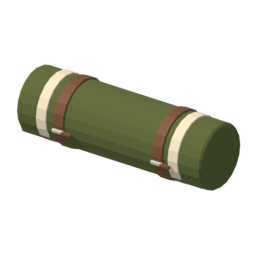
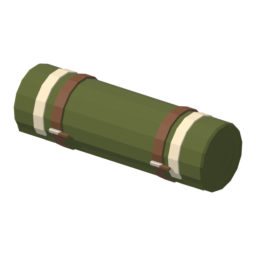
feat(121): thumbnails round 5 — bedroll 15-sided, bike pump, gas can, pack, rucksack reworks; burger, groceries, cooler and ice rulings

diff --git a/assets/models/src/items.py b/assets/models/src/items.py
@@ -397,7 +397,7 @@ def build_emergencyGas():
     """A 2 gal RotoPax-style flat pack: rounded slab with the mounting hole, ribs, top handle, black cap."""
     b = Builder()
     W, H, T, C = 0.375, 0.315, 0.100, 0.014
-    N = 64
+    N = 24   # lower poly (owner, 2026-10-21)
     def outline(w, h, r, cx=0, cz=0):
         out = []
         for k in range(N):
@@ -436,14 +436,25 @@ def build_emergencyGas():
                 b.cbox(((x0[0] + x0[1]) / 2, y + s * 0.003, zc + zz), (x0[1] - x0[0], 0.010, 0.016), "CanRed", ch=0.003)
     # Carry handle along the top, and the black cap on the top-right shoulder.
     top = zc + H / 2
-    b.bar((-0.095, 0, top - 0.010), (-0.080, 0, top + 0.040), 0.034, "CanRed", h=0.030)
-    b.bar((0.045, 0, top - 0.010), (0.030, 0, top + 0.040), 0.034, "CanRed", h=0.030)
-    b.bar((-0.090, 0, top + 0.040), (0.040, 0, top + 0.040), 0.034, "CanRed", h=0.030)
+    def arch(x0, x1, z1, lw, th, k):   # the handle's side outline: two legs and a bar, corners cut by k
+        z0 = top - 0.012
+        return [(x0, z0), (x0 + lw, z0), (x0 + lw, z1 - th - k), (x0 + lw + k, z1 - th), (x1 - lw - k, z1 - th),
+                (x1 - lw, z1 - th - k), (x1 - lw, z0), (x1, z0), (x1, z1 - k), (x1 - k, z1), (x0 + k, z1), (x0, z1 - k)]
+    HT, CH = 0.032, 0.005   # handle thickness; chamfer on its front and back edges (owner, 2026-10-21: one solid)
+    full = arch(-0.110, 0.060, top + 0.055, 0.032, 0.026, 0.012)
+    inset = arch(-0.110 + CH, 0.060 - CH, top + 0.055 - CH, 0.032 - 2 * CH, 0.026 - 2 * CH, 0.012)
+    hl = [(inset, -HT / 2), (full, -HT / 2 + CH), (full, HT / 2 - CH), (inset, HT / 2)]
+    for (la, ya), (lb, yb) in zip(hl, hl[1:]):
+        for k in range(len(full)):
+            j = (k + 1) % len(full)
+            b.face([(la[k][0], ya, la[k][1]), (la[j][0], ya, la[j][1]), (lb[j][0], yb, lb[j][1]), (lb[k][0], yb, lb[k][1])], "CanRed")
+    for lp, y in ((inset, -HT / 2), (inset, HT / 2)):
+        b.face([(x, y, z_) for x, z_ in lp], "CanRed")
     b.M = Matrix.Translation((0.128, 0, top - 0.012)) @ Matrix.Rotation(math.radians(-18), 4, "Y")
-    b.lathe([(0.030, 0.0), (0.030, 0.012), (0.033, 0.014), (0.033, 0.040), (0.030, 0.044), (0.0, 0.046)], 16, "CanBlack", cap_top=False)
-    for k in range(16):  # knurl ribs on the cap
-        a = 2 * math.pi * (k + 0.5) / 16
-        b.bar((0.034 * math.cos(a), 0.034 * math.sin(a), 0.016), (0.034 * math.cos(a), 0.034 * math.sin(a), 0.038), 0.004, "CanBlack")
+    b.lathe([(0.040, 0.0), (0.040, 0.014), (0.044, 0.017), (0.044, 0.050), (0.040, 0.055), (0.0, 0.057)], 12, "CanBlack", cap_top=False)
+    for k in range(12):  # knurl ribs on the (bigger) cap
+        a = 2 * math.pi * (k + 0.5) / 12
+        b.bar((0.045 * math.cos(a), 0.045 * math.sin(a), 0.019), (0.045 * math.cos(a), 0.045 * math.sin(a), 0.047), 0.005, "CanBlack")
     b.M = Matrix.Identity(4)
     return b.finish("emergencyGas")
 
@@ -453,20 +464,21 @@ def build_pack():
     top, leather base, leather-flapped front pocket with two buckled straps, canvas webbing shoulder
     straps on leather tabs, a leather grab loop."""
     b = Builder()
-    body = ((0.0, 0.25, 0.085), (0.008, 0.262, 0.097), (0.02, 0.27, 0.10), (0.06, 0.274, 0.104), (0.20, 0.276, 0.106),
-            (0.31, 0.276, 0.106), (0.335, 0.272, 0.104), (0.352, 0.262, 0.098), (0.363, 0.246, 0.090), (0.369, 0.228, 0.082))
-    b.loft([rrect(w, d, min(0.025, d / 2 - 0.002), z, per=5) for z, w, d in body], "Canvas")
+    D = 0.106   # body depth at its widest
+    body = ((0.0, 0.25, 0.085), (0.02, 0.27, 0.10), (0.20, 0.276, D), (0.31, 0.276, D), (0.350, 0.264, 0.099),
+            (0.369, 0.228, 0.082))   # lower poly (owner, 2026-10-21)
+    b.loft([rrect(w, d, min(0.025, d / 2 - 0.002), z, per=2) for z, w, d in body], "Canvas")
     # Leather base, wrapped a few mm proud of the canvas.
-    base = ((0.0, 0.256, 0.091), (0.008, 0.268, 0.103), (0.02, 0.276, 0.106), (0.06, 0.280, 0.110))
-    b.loft([rrect(w, d, 0.026, z, per=5) for z, w, d in base], "Leather", cap_top=False)
+    base = ((0.0, 0.256, 0.091), (0.02, 0.276, 0.106), (0.06, 0.280, 0.110))
+    b.loft([rrect(w, d, 0.026, z, per=2) for z, w, d in base], "Leather", cap_top=False)
     # Two leather straps over the top, from the back down the front, buckled above the pocket.
     over = [r for r in body if r[0] >= 0.30]
-    path = [(d / 2, z) for z, w, d in over] + [(-d / 2, z) for z, w, d in reversed(over)] + [(-body[4][2] / 2, 0.255)]
+    path = [(d / 2, z) for z, w, d in over] + [(-d / 2, z) for z, w, d in reversed(over)] + [(-D / 2, 0.255)]
     for x in (-0.06, 0.06):
         for (y0, z0), (y1, z1) in zip(path, path[1:]):
             t = Vector((0, y1 - y0, z1 - z0)).normalized(); n = (0, -t.z, t.y)
             b.bar((x, y0, z0), (x, y1, z1), 0.022, "Leather", h=0.004, caps=False, up=n)
-        yb, bz = -body[4][2] / 2 - 0.003, 0.290
+        yb, bz = -D / 2 - 0.003, 0.290
         for (p, q) in (((x - 0.015, yb, bz - 0.011), (x + 0.015, yb, bz - 0.011)),
                        ((x - 0.015, yb, bz + 0.011), (x + 0.015, yb, bz + 0.011)),
                        ((x - 0.015, yb, bz - 0.011), (x - 0.015, yb, bz + 0.011)),
@@ -496,10 +508,9 @@ def build_rucksack():
     """An old canvas rucksack: lofted body, top flap, front pocket, leather straps + buckles, haul loop."""
     b = Builder()
     rings = []
-    for z, w, d in ((0.0, 0.26, 0.13), (0.008, 0.276, 0.146), (0.02, 0.285, 0.155), (0.06, 0.298, 0.168),
-                    (0.10, 0.305, 0.175), (0.17, 0.309, 0.178), (0.24, 0.31, 0.178), (0.30, 0.304, 0.172),
-                    (0.36, 0.295, 0.165), (0.40, 0.283, 0.155), (0.42, 0.27, 0.145), (0.445, 0.24, 0.12)):
-        rings.append(rrect(w, d, 0.045, z, per=6))
+    for z, w, d in ((0.0, 0.26, 0.13), (0.02, 0.285, 0.155), (0.10, 0.305, 0.175), (0.24, 0.31, 0.178),
+                    (0.36, 0.295, 0.165), (0.42, 0.27, 0.145), (0.445, 0.24, 0.12)):   # lower poly (owner, 2026-10-21)
+        rings.append(rrect(w, d, 0.045, z, per=2))
     b.loft(rings, "Canvas")
     # Top flap: a soft lid draped over the top and down the front. A grid of (profile x across)
     # points: the side profile in YZ, its edges drooping into the body as |v|^3 so the flap wraps the
@@ -536,16 +547,17 @@ def build_rucksack():
     # Front pocket.
     b.cbox((0.0, -0.105, 0.135), (0.215, 0.055, 0.17), "Canvas", ch=0.018)
     b.cbox((0.0, -0.110, 0.205), (0.222, 0.056, 0.035), "CanvasDark", ch=0.012)   # pocket flap
-    # Two leather straps: from under the top flap down over the pocket, with buckles.
+    # Two leather straps from under the top flap, buckled above the pocket; the pocket's own two short
+    # straps run down from its flap (owner, 2026-10-21: the long ones clipped through it — do it like the pack).
+    def buckle(x, y, bz, hw, hh, t):
+        for (p, q) in (((x - hw, y, bz - hh), (x + hw, y, bz - hh)), ((x - hw, y, bz + hh), (x + hw, y, bz + hh)),
+                       ((x - hw, y, bz - hh), (x - hw, y, bz + hh)), ((x + hw, y, bz - hh), (x + hw, y, bz + hh))):
+            b.bar(p, q, t, "Buckle")
     for x in (-0.065, 0.065):
-        b.ribbon([(x, -0.103, 0.335), (x, -0.104, 0.300), (x, -0.124, 0.230), (x, -0.136, 0.170), (x, -0.135, 0.105)],
-                 (0, -1, 0), 0.024, 0.004, "Leather")
-        bz = 0.150
-        for (p, q) in (((x - 0.017, -0.140, bz - 0.013), (x + 0.017, -0.140, bz - 0.013)),
-                       ((x - 0.017, -0.140, bz + 0.013), (x + 0.017, -0.140, bz + 0.013)),
-                       ((x - 0.017, -0.140, bz - 0.013), (x - 0.017, -0.140, bz + 0.013)),
-                       ((x + 0.017, -0.140, bz - 0.013), (x + 0.017, -0.140, bz + 0.013))):
-            b.bar(p, q, 0.005, "Buckle")
+        b.ribbon([(x, -0.103, 0.335), (x, -0.100, 0.300), (x, -0.094, 0.270), (x, -0.092, 0.236)], (0, -1, 0), 0.024, 0.004, "Leather")
+        buckle(x, -0.097, 0.262, 0.017, 0.013, 0.005)
+        b.ribbon([(x * 0.85, -0.1395, 0.200), (x * 0.85, -0.1345, 0.150), (x * 0.85, -0.134, 0.090)], (0, -1, 0), 0.020, 0.003, "Leather")
+        buckle(x * 0.85, -0.137, 0.140, 0.014, 0.011, 0.004)
     # Shoulder straps on the back, and the haul loop on top.
     for x in (-0.075, 0.075):
         b.ribbon([(x * 0.8, 0.075, 0.420), (x, 0.115, 0.380), (x * 1.15, 0.125, 0.240), (x * 1.3, 0.115, 0.080), (x * 1.3, 0.085, 0.03)],
@@ -559,7 +571,7 @@ def build_rucksack():
 
 def build_bedroll():
     """A rolled wool blanket: stepped spiral ends, cream stripe bands, two leather straps with buckles."""
-    b = Builder(); SEG = 20
+    b = Builder(); SEG = 15   # owner, 2026-10-21
     R, L = 0.088, 0.56
     b.M = Matrix.Translation((0, 0, R)) @ Matrix.Rotation(math.pi / 2, 4, "Y")
     # Body, with the spiral read from three stepped layers at each end.
@@ -1448,31 +1460,29 @@ def build_bikePump():
     for sx in (-1, 1):   # the feet
         b.hull([(sx * dx, dy, z) for dx in (0.018, 0.105) for dy in (-0.030, 0.030) for z in (0.0, 0.012)]
                + [(sx * 0.112, 0.0, 0.006)], "CanBlack")
-    b.lathe([(0.0, 0.0), (0.036, 0.0), (0.036, 0.024), (0.026, 0.040), (0.026, 0.050), (0.0, 0.051)], 16, "CanBlack")   # base boss
-    b.lathe([(0.0225, 0.050), (0.0225, 0.600)], 16, "Steel", cap_bottom=False, cap_top=False)   # barrel
-    b.lathe([(0.0255, 0.596), (0.0255, 0.618), (0.010, 0.624), (0.0, 0.625)], 16, "CanBlack", cap_bottom=False)   # top cap
-    b.lathe([(0.0055, 0.624), (0.0055, 0.680)], 10, "Chrome", cap_bottom=False, cap_top=False)   # plunger rod
+    # Lower poly, fatter barrel, bigger gauge and handle so it reads small (owner, 2026-10-21).
+    b.lathe([(0.0, 0.0), (0.042, 0.0), (0.042, 0.024), (0.032, 0.040), (0.032, 0.050), (0.0, 0.051)], 10, "CanBlack")   # base boss
+    b.lathe([(0.028, 0.050), (0.028, 0.600)], 10, "Steel", cap_bottom=False, cap_top=False)   # barrel
+    b.lathe([(0.031, 0.596), (0.031, 0.618), (0.012, 0.624), (0.0, 0.625)], 10, "CanBlack", cap_bottom=False)   # top cap
+    b.lathe([(0.0065, 0.624), (0.0065, 0.680)], 6, "Chrome", cap_bottom=False, cap_top=False)   # plunger rod
     b.M = Matrix.Translation((0, 0, 0.690)) @ Matrix.Rotation(math.pi / 2, 4, "Y")   # T-handle along X
-    hp = [(0.0, -0.096), (0.010, -0.095), (0.0145, -0.090)]
-    for k in range(17):
-        z = -0.082 + 0.164 * k / 16
-        hp.append((0.0145 if abs(z) > 0.020 else 0.0115, z))
-    hp += [(0.0145, 0.090), (0.010, 0.095), (0.0, 0.096)]
-    b.lathe(hp, 12, "CanBlack", cap_bottom=False, cap_top=False)
+    hp = [(0.0, -0.125), (0.013, -0.124), (0.019, -0.118), (0.019, -0.026), (0.014, -0.022), (0.014, 0.022), (0.019, 0.026),
+          (0.019, 0.118), (0.013, 0.124), (0.0, 0.125)]
+    b.lathe(hp, 8, "CanBlack", cap_bottom=False, cap_top=False)
     b.M = Matrix.Identity(4)
     # Gauge on the base, face toward the viewer.
-    b.M = Matrix.Translation((0.0, -0.040, 0.075)) @ Matrix.Rotation(math.radians(75), 4, "X")
-    b.lathe([(0.0, -0.010), (0.034, -0.010), (0.037, 0.0), (0.037, 0.006), (0.033, 0.008)], 20, "CanBlack", cap_top=False)
-    b.lathe([(0.033, 0.005), (0.0, 0.005)], 20, "GaugeFace", cap_bottom=False, cap_top=False)
-    b.bar((0.0, 0.0, 0.0058), (0.016, 0.018, 0.0058), 0.003, "CanRed", h=0.0008)
+    b.M = Matrix.Translation((0.0, -0.052, 0.100)) @ Matrix.Rotation(math.radians(75), 4, "X")
+    b.lathe([(0.0, -0.012), (0.049, -0.012), (0.053, 0.0), (0.053, 0.007), (0.048, 0.009)], 12, "CanBlack", cap_top=False)
+    b.lathe([(0.048, 0.006), (0.0, 0.006)], 12, "GaugeFace", cap_bottom=False, cap_top=False)
+    b.bar((0.0, 0.0, 0.0068), (0.024, 0.026, 0.0068), 0.004, "CanRed", h=0.0010)
     b.M = Matrix.Identity(4)
-    b.bar((0.0, -0.022, 0.060), (0.0, -0.030, 0.068), 0.010, "CanBlack")
+    b.bar((0.0, -0.026, 0.088), (0.0, -0.040, 0.096), 0.012, "CanBlack")
     # Hose: out of the base, a loop out to the side, up to a clip high on the barrel, chuck parked.
-    hose = [(0.030, 0.012, 0.030), (0.060, 0.030, 0.030), (0.085, 0.040, 0.080), (0.090, 0.040, 0.180), (0.080, 0.035, 0.300),
-            (0.060, 0.030, 0.400), (0.040, 0.026, 0.470), (0.030, 0.024, 0.500)]
-    b.tube(hose, 0.0055, 8, "CanBlack")
-    b.cbox((0.0, 0.024, 0.500), (0.050, 0.010, 0.020), "CanBlack", ch=0.003)   # holster clip on the barrel
-    b.tube([(0.030, 0.024, 0.500), (0.030, 0.024, 0.535), (0.030, 0.024, 0.560)], 0.0095, 10, "CanRed")   # chuck
+    hose = [(0.036, 0.014, 0.030), (0.066, 0.034, 0.030), (0.092, 0.044, 0.080), (0.097, 0.044, 0.180), (0.087, 0.040, 0.300),
+            (0.066, 0.035, 0.400), (0.046, 0.032, 0.470), (0.036, 0.031, 0.500)]
+    b.tube(hose, 0.0070, 6, "CanBlack")
+    b.cbox((0.0, 0.030, 0.500), (0.060, 0.010, 0.022), "CanBlack", ch=0.003)   # holster clip on the barrel
+    b.tube([(0.036, 0.031, 0.500), (0.036, 0.031, 0.535), (0.036, 0.031, 0.562)], 0.0110, 8, "CanRed")   # chuck
     return b.finish("bikePump")
 
 

diff --git a/.planning/story-mode/items.md b/.planning/story-mode/items.md
@@ -57,7 +57,7 @@ Used up. Per-job or per-day decisions, not permanent upgrades.
 | **Coffee** | Alert now, sleepy earlier tomorrow. **A loan against tomorrow, repaid at interest.** The canonical consumable and the shape every other one is measured against. **+5 h now, −2 h off the next wake-up** (owner, 2026-10-20; was −3: five hours awake costs about three hours of sleep, so the cup has to beat that ratio or nobody drinks it). | Bought (general store, gas station, food vendor), **$3** | Tomorrow's hours | **RATIFIED** — DESIGN.md "The day and the clock"; figures §7 rulings 2026-10-20 |
 | ~~**Cargo straps**~~ **[STRUCK 2026-10-14 — not an item; FEAT-110 closed, see §3e]** | Makes the **next fragile cargo** more resilient by changing the coupling between chassis and load — the cargo sees less shock than the truck does. Enables freight-grade fragile work you'd otherwise turn down. | Bought or found | Cash; a slot; trivial mass | **IDEA** — `IDEAS.md` 2026-07-29. *Open: single-use per job, degrades over several, or a reusable tool?* |
 | **Fish (eaten)** | Alertness that **does not have to be repaid** — the only honest restoration in the game. *"Coffee is debt. Fish is income."* | Caught; best at a favored water | A long relationship with the water | **PROPOSED** — `spirits-and-pacts.md` #04. ⚠ Depends on The Confluence, which is deferred. **Four species (owner, 2026-10-21): salmon, rainbow trout, brown trout, catfish — each carries a different effect** (§5) |
-| **Groceries** | **A delayed meal.** Bought at the general store, carried, and **cooked into a meal at camp — only if you own the cooking kit**. They still spoil (§1b), so they buy hours, not days. The meal for later in a run, when you camp far from a food vendor and the next stop with a kitchen is a day's drive off. | Bought (general store) | Cash; the spoilage clock; and the cooking kit's ≈23 kg on every mile | **IDEA** — owner, 2026-10-20. Figures open (the item setup page) |
+| **Groceries** | **A delayed meal.** Bought at the general store, carried, and **cooked into a meal at camp — only if you own the cooking kit**. **Ruled 2026-10-21:** the cooked meal holds 10 h; cook it in the evening or the morning before you break camp; the cooler slows them like fish; the kit's flat food bonus does not apply on top — cooking them *is* the kit's bonus. They still spoil (§1b), so they buy hours, not days. The meal for later in a run, when you camp far from a food vendor and the next stop with a kitchen is a day's drive off. | Bought (general store) | Cash; the spoilage clock; and the cooking kit's ≈23 kg on every mile | **IDEA** — owner, 2026-10-20. Figures open (the item setup page) |
 | **Spare tire** | Recovers from a puncture without a tow. **Fitting it is a 90 min timeskip** (owner, 2026-10-20; was 30 min, 2026-09-30). Puncture is a hard fail state in the wear model. **Ruled 2026-10-21:** self-contained — the truck always carries the factory jack. Full-size only, no donut. **Two items in different pools: worn (50–80% condition, ~$15) and new (~$25).** Sold at the auto shop; a bonus item from the auto shop and stranded motorists (A–S); a rare roadside find. | Bought/found; starts in some jalopies | Real mass, all the time | **IMPLIED** — named in DESIGN.md "The car" as a stowed consumable; behavior unspecified |
 | **Air filter (spare)** | Replacement for the track the player must actively *watch* — it does ~nothing until it does. | Bought/found | Cash; a slot | **IMPLIED** — same |
 | **Fuel** | The tank. Burn is a function of rpm and load, so a par-beating drive costs fuel as well as wear. **The one cost that scales with distance** — SM-INV-5 keeps wear off the distance axis, and this is what fills it. Bought at gas stations. | Gas stations (a POI type) | Cash — and the detour, if you let it get low | **RATIFIED** — owner, 2026-08-01. Reverses this row's old *NOT DESIGNED*. Ticket FEAT-50; gauge already ships (FEAT-49). See DESIGN.md "Fuel and gas stations" |
@@ -150,7 +150,9 @@ before the buff question is settled.
 | **Fish, in a cooler** | **~36 h** (2026-10-21: ×1/6; the better cooler is open) | You can carry it, camp on it, and still eat it tomorrow — a two-rung ladder, see below |
 | **Chili dog** | **16 h** (2026-10-21) | Gone |
 | **Packed lunch** | **24 h** (2026-10-21) | Gone |
-| *(everything else)* | unspecified | Cooked fish, groceries, the burger and food-as-cargo still want a figure |
+| **Burger** | **16 h** (2026-10-21, like the chili dog) | Gone |
+| **Groceries** | open — **the cooler slows them like fish (×1/6)** (2026-10-21) | Gone |
+| *(everything else)* | unspecified | Cooked fish and food-as-cargo still want a figure |
 
 **What the fish number actually does.** The day is 12–16 h (the alertness ladder, FEAT-54), so a
 fish landed in the morning is dead by mid-afternoon. Without cooling, **fishing early is a
@@ -260,10 +262,11 @@ spends daylight, so it can't turn into a chore. Thirst is out (owner, 2026-09-30
 
 - **A food class.** Diner meals, a packed lunch, cooked fish, gas-station junk food. Each resets the
   hunger clock; they differ in what else they do. **The roster as of 2026-10-21:** the **burger** (its
-  own item at the food vendor — the standard meal, ~8 h), the **dinner meal** (renamed from diner meal:
+  own item at the food vendor — the standard meal, ~8 h; spoils in 16 h, $5, a C–B reward from the food
+  vendor, never found), the **dinner meal** (renamed from diner meal:
   one generic sit-down meal at the food vendor, 8 h, 30 min to eat, $5–10, eat-in only), the chili dog
   (10 h, spoils in 16 h), the **packed lunch** (never sold — a $6 reward from homes, farms and the food
-  vendor, B–A; 8 h; fresh 24 h), groceries (§1, cooked at camp), and four gas-station snacks split from
+  vendor, B–A; 8 h; fresh 24 h), groceries (§1, cooked at camp: the meal holds 10 h), and four gas-station snacks split from
   one: **bag of peanuts, gummy worms, spicy chips, candy bar** — each holds 2–4 h and stacks 3–5, and the
   higher one stacks the less it holds.
 - **The "reduce energy drain" items** the owner asked for — they are simply the meals, and the
@@ -300,7 +303,7 @@ plus a slot**, paid on every mile you carry it, against a payoff you only occasi
 | **Breaker bar** | Roadside wrenching. Paired with the quick-jack in the bible's own list. | Bought/found | Real mass, always | **IMPLIED** — same |
 | **Chain** | Chains onto a downed log for the drag. **A one-sided distance constraint** — zero force slack, hard tension taut — and the snatch impulse *is* the damage signal. | Main-mission equipment | The truck, by design | **RATIFIED premise** — `missions.md` "Main missions". *Open: carried item, or supplied by the mission?* |
 | **Fishing gear** | Required for the fishing minigame. | ? | ? | **IMPLIED / UNSPECIFIED** — see the gap note below |
-| **Cooler** | **A flat rate reduction on the spoilage clock (§1b).** Uncooled, a fish is good for about four or five hours — cook it on the spot or lose it. In the cooler it keeps for a day or two, so you can carry the catch, camp on it, and eat it tomorrow. **Ruled 2026-10-21: ~6 h uncooled → ~36 h in the cooler, and it holds 4 fish.** **Primarily fishing kit** — it is the thing that lets a catch leave the water without being eaten where it was landed. | Bought/found | Cash; a slot; **deliberately trivial mass — which is the problem, see the note below** | **IDEA** — owner, 2026-08-22 |
+| **Cooler** | **A flat rate reduction on the spoilage clock (§1b).** Uncooled, a fish is good for about four or five hours — cook it on the spot or lose it. In the cooler it keeps for a day or two, so you can carry the catch, camp on it, and eat it tomorrow. **Ruled 2026-10-21: ~6 h uncooled → ~36 h in the cooler, and it holds 4 fish.** **Its running cost is ice** (owner, 2026-10-21): it must be refilled every 3 days (a bag of ice lasts 72 h), bought at the gas station and the general store. Sold at the general store and tackle shop, $10–30; a tackle-shop reward (A–S); a roadside find rarer than the common ones. **Primarily fishing kit** — it is the thing that lets a catch leave the water without being eaten where it was landed. | Bought/found | Cash; a slot; **deliberately trivial mass — which is the problem, see the note below** | **IDEA** — owner, 2026-08-22 |
 | **GPS unit** | **Draws the mission route in the 3D world** so you drive it by looking out of the windscreen instead of stopping to read the map — FEAT-39's chevrons + junction arrow boards, already shipped in `src/gps.js`. A **direct convenience upgrade for any player**, and deliberately a common find: it does not make you *faster*, it makes knowing-the-way *free*. A skilled player reads the map and spends the cash elsewhere. **Until you find one, the paper map (FEAT-16, `M`) is all you get** — navigation is map-reading, landmarks, and memory. | Found or bought within a run | Cash; a slot; trivial mass — the real cost is that you had to *earn* legibility | **RATIFIED premise** — owner, 2026-07-31: "GPS should be an item; until you find it you navigate via the map alone." *Open: strictly per-run (SM-INV-8 says items die with the run — you re-find it every run), or does knowing-where-one-sells count as the literacy that persists?* |
 | **Destination beacon** | Shows a **beam of light rising from the destination**, visible over terrain from far off. Gives *bearing*, not route — the point is that it makes **off-route travel** findable: you can leave the road, crest the ridge, and steer by the light. It answers "where," never "how." | Found or bought within a run | Cash; a slot | **IDEA** — owner, 2026-07-31. *Open: always-on while carried, or aimed/activated? Render: a sky-beam is cheap and reads at range, but must respect fog/night (day/night pass made fogColor a radiance value).* |
 | **Shortcut GPS** | **The Shortcut's relationship, rendered on the windscreen.** It ties cut generation (FEAT-52) into the on-screen navigation — FEAT-39's chevrons and junction boards applied to **cuts** as well as roads. It shows you what the Shortcut has **already revealed to you**, so it is worthless at zero esteem and better the warmer he gets. Par is unaffected: par is always the road route (SM-INV-2). The advanced GPS — very rare. | Found or bought within a run; **very rare** | Cash; a slot | **RATIFIED** — owner, 2026-08-02 (**rebuilt**; was "his knowledge on a chip, strictly stronger than his pact"). *The "what is a shortcut" tech question is ANSWERED: cuts are real worldgen objects (FEAT-52), not an overland-routing problem.* |
@@ -990,6 +993,12 @@ slot, charges or a cooldown). *Function* is what it acts on. Empty cells are whe
 - **Food**: the burger is its own item; the diner meal is renamed the dinner meal; the gas-station snacks
   split into four; the packed lunch is reward-only; the chili dog spoils in 16 h (§1d).
 - **Fish**: four species with different effects; ~6 h uncooled, ~36 h in a cooler that holds 4 (§1b, §5).
+- **Burger**: spoils in 16 h, $5, a C–B reward from the food vendor, never found (§1d).
+- **Groceries**: the cooked meal holds 10 h; cook in the evening or the morning; the cooler slows them;
+  cooking them is the kit's whole bonus (§1).
+- **The cooler runs on ice**: refill it every 3 days. Ice is a consumable sold at the gas station and the
+  general store. The cooler: general store and tackle shop, $10–30, tackle-shop reward A–S, rare find (§2).
+- **Spare tire**: signed off as drawn; a later idea is to sell wheels and tires separately (not ruled).
 - **New idea, not ruled:** since the item models exist anyway, drop items into the world and give the
   truck a *proximity inventory*: walk or drive up to an item to load it, or drop one where you stand.
 

diff --git a/.planning/todos/pending/feat-121-item-tracker.md b/.planning/todos/pending/feat-121-item-tracker.md
@@ -77,7 +77,7 @@ vendor: holds hunger 8 h, 30 min to eat, $5–10, eat-in only.
 ### Burger
 status: todo · design: proposed · build: effect · needs: hunger · where: foodVendor
 The standard meal, its own item (owner, 2026-10-21): holds hunger ~8 h, so two cover a waking day.
-Spoilage and price open.
+Spoils in 16 h; $5; a C–B reward from the food vendor; never found (2026-10-21).
 
 ### Packed lunch
 status: todo · design: ratified · build: effect · needs: hunger, spoilage · where: reward
@@ -87,7 +87,8 @@ $6. Holds hunger 8 h; fresh 24 h. Never found.
 ### Groceries
 status: todo · design: idea · build: effect · needs: hunger, spoilage, camp render · where: generalStore
 A delayed meal (owner, 2026-10-20): bought, carried, cooked into a meal at camp — only with the
-cooking kit. Still on the spoilage clock. Figures open on the item setup page.
+cooking kit. Still on the spoilage clock. Ruled 2026-10-21: the meal holds 10 h; cook evening or morning;
+the cooler slows them (×1/6); no kit bonus on top. Fresh-for, meals per bag and cook time still open.
 
 ### Bag of peanuts
 status: todo · design: proposed · build: effect · needs: hunger · where: gasStation
@@ -186,8 +187,9 @@ status: todo · design: ratified · build: effect · needs: cargo protection · 
 3 uses, any fragile item: medium damage reduction (FEAT-116).
 
 ### Ice
-status: todo · design: idea · build: effect · needs: spoilage · where: gasStation, generalStore
-One of three unruled candidates for the cooler's running cost (items.md §2). Only if the owner picks it.
+status: todo · design: proposed · build: effect · needs: spoilage · where: gasStation, generalStore
+The cooler's running cost (owner, 2026-10-21): a bag lasts 72 h, so the cooler is refilled every 3 days.
+Sold at the gas station and the general store; price open.
 
 ### Dynamite
 status: todo · design: blocked · build: effect · needs: hazards, cuts · where: found
@@ -221,8 +223,8 @@ Roadside wrenching, paired with the jack. Behaviour unspecified.
 
 ### Cooler
 status: todo · design: idea · build: effect, model · needs: spoilage · where: tackleShop, generalStore
-×1/6 spoilage rate: fish keeps ~36 h instead of ~6 h; holds 4 fish (owner, 2026-10-21). Its cost (ice /
-bed volume / slot) is unruled.
+×1/6 spoilage rate: fish keeps ~36 h instead of ~6 h; holds 4 fish (owner, 2026-10-21). **Runs on ice,
+refilled every 3 days** (Ice row). General store + tackle shop, $10–30; tackle-shop reward A–S; rare find.
 
 ### Better cooler
 status: todo · design: idea · build: effect, model · needs: spoilage · where: tackleShop
